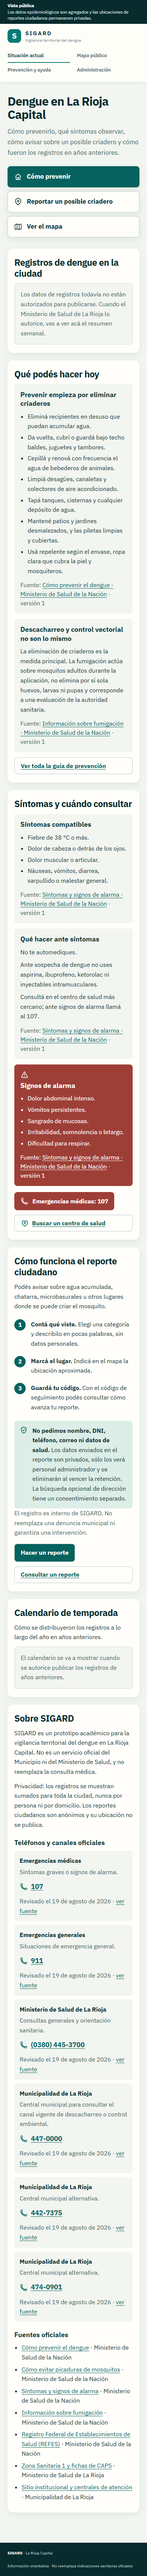
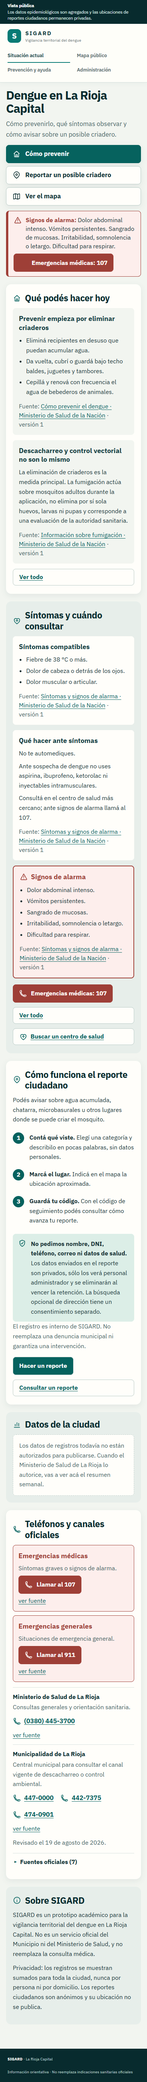
docs: portada reordenada en el manual ciudadano, estado funcional y README
- Manual: los ocho bloques en el nuevo orden (franja de alarma, vista
  previa con «Ver todo», Datos de la ciudad, teléfonos agrupados) y
  capturas regeneradas con datos ficticios (escritorio, celular y celular
  sin datos autorizados).
- Estado funcional: segunda etapa de ajustes de presentación y pruebas.
- README del frontend: descripción de la ruta /.

Changed region(s): [[0.0308, 0.0, 0.9538, 1.0]]

diff --git a/docs/manuales/manual-ciudadano.md b/docs/manuales/manual-ciudadano.md
@@ -28,7 +28,7 @@ En la parte superior hay un menú con estas secciones:
 
 | Sección | Para qué sirve |
 |---|---|
-| Situación actual | Portada: accesos rápidos, registros de años anteriores, prevención, síntomas, reporte y canales oficiales |
+| Situación actual | Portada: accesos rápidos, signos de alarma, prevención, síntomas, reporte, datos de la ciudad y canales oficiales |
 | Mapa público | Mapa de contexto de la ciudad |
 | Actividad registrada | Datos históricos protegidos por zona (sólo aparece si está habilitada) |
 | Prevención y ayuda | Prevención, síntomas, centros de salud, teléfonos, reporte y seguimiento |
@@ -42,27 +42,32 @@ El sitio funciona en computadora y en celular, y se puede recorrer con el teclad
 
 ![La portada en el celular (datos ficticios)](img/ciudadano-portada-movil.png)
 
-La portada reúne lo más útil en una sola página:
+La portada reúne lo más útil en una sola página, en este orden:
 
-1. **Tres accesos**: **Cómo prevenir**, **Reportar un posible criadero** y **Ver el mapa**.
-2. **Registros de dengue en la ciudad**: cuántos registros hubo en cada una de las últimas 8
-   semanas con datos, con la fecha del último dato. **Es una reconstrucción histórica: no muestra
-   la situación actual.** Las semanas con menos de 5 registros aparecen como «Menos de 5». Si
-   alguna semana está protegida, el sitio no calcula si los registros subieron o bajaron, porque
-   eso permitiría deducir el valor oculto.
-3. **Qué podés hacer hoy** y **Síntomas y cuándo consultar**: el mismo contenido que publica el
-   equipo de salud en Prevención y ayuda, con la fuente de cada texto. El botón para llamar a
-   emergencias aparece sólo si ese teléfono está confirmado.
-4. **Cómo funciona el reporte ciudadano**: los pasos y qué datos se guardan.
-5. **Calendario de temporada**: los registros de cada período de 4 semanas (por ejemplo, «del 7 de
-   enero al 3 de febrero»). Elegí el año con los botones. Todas las barras usan la misma escala.
-   Los períodos con alguna semana protegida se ven con rayas y sin total.
-6. **Sobre SIGARD**: qué es, cómo se cuida la privacidad, teléfonos confirmados y fuentes
-   oficiales.
+1. **Título y tres accesos**: **Cómo prevenir**, **Reportar un posible criadero** y **Ver el mapa**.
+2. **Franja de signos de alarma**: justo debajo de los accesos, visible sin desplazarse en el
+   celular. Muestra los signos de alarma publicados por el equipo de salud y un botón para llamar
+   al número de emergencia, sólo si ese teléfono está confirmado; si no lo está, un enlace a
+   Síntomas.
+3. **Qué podés hacer hoy**: los 3 primeros puntos de cada tema de prevención y el enlace **Ver
+   todo**, que lleva a la guía completa en Prevención y ayuda.
+4. **Síntomas y cuándo consultar**: los 3 primeros puntos de cada tema y **Ver todo**. Los **signos
+   de alarma** se muestran siempre completos, en un recuadro rojo claro.
+5. **Cómo funciona el reporte ciudadano**: los pasos y qué datos se guardan.
+6. **Datos de la ciudad**: los registros de las últimas 8 semanas con datos y el calendario de
+   temporada, juntos, con la fecha del último dato. **Es una reconstrucción histórica: no muestra
+   la situación actual.** Las semanas con menos de 5 registros aparecen como «Menos de 5»; si
+   alguna semana está protegida, el sitio no calcula si los registros subieron o bajaron. En el
+   calendario elegí el año con los botones; todas las barras usan la misma escala y los períodos
+   con alguna semana protegida se ven con rayas y sin total.
+7. **Teléfonos y canales oficiales**: las líneas de emergencia con botón para llamar, y el
+   Ministerio y la Municipalidad en una lista breve (las líneas municipales juntas), con la fecha
+   de revisión. Las **Fuentes oficiales** se despliegan al tocar su título.
+8. **Sobre SIGARD**: qué es y cómo se cuida la privacidad.
 
-Mientras el Ministerio de Salud no autorice publicar los registros, los bloques 2 y 5 muestran un
-aviso en lugar de cifras. Cuando la página usa datos de prueba, lo indica con el aviso **«Datos
-ficticios de demostración»**.
+Mientras el Ministerio de Salud no autorice publicar los registros, **Datos de la ciudad** muestra
+un único aviso en lugar de cifras. Cuando la página usa datos de prueba, lo indica con el aviso
+**«Datos ficticios de demostración»**.
 
 ![La portada en el celular, sin datos autorizados](img/ciudadano-portada-vacia-movil.png)
 

diff --git a/docs/mvp-functional-status.md b/docs/mvp-functional-status.md
@@ -65,6 +65,17 @@ en períodos de 4 semanas; y sobre SIGARD, privacidad y canales oficiales.
   siguen en `/mapa`, sin cambios. `/` ya no carga la publicación del MVP.
 - **Pruebas:** `test:public-home` (11) y `test:public-home:browser` (390 px y 1440 px, paquete
   ficticio y estado vacío, contraste AA, texto ≥ 16 px, accesos y teclado).
+- **Ajustes de presentación (27/11/2026, segunda etapa):** nuevo orden (accesos, franja de
+  alarma, qué hacer hoy, síntomas, reporte, datos de la ciudad, teléfonos, sobre SIGARD). La franja
+  arma una línea con el título y los ítems publicados de `signos-alarma` y llama al número de
+  emergencia publicado/confirmado (sin él, enlace a `#sintomas`). Prevención y síntomas muestran los
+  3 primeros ítems de cada sección con «Ver todo»; los signos de alarma, completos y en rojo claro.
+  Registros y calendario forman un solo bloque «Datos de la ciudad» (un único mensaje sin
+  autorización, y el subtítulo omite «años anteriores»). Contactos: códigos cortos destacados con
+  botón, el resto agrupado por nombre, una sola línea «Revisado…» y fuentes en un desplegable. El
+  pie de `/` ya no muestra el corte epidemiológico ni la fuente técnica; `/mapa` los conserva.
+  Pruebas: `test:public-home` (14) y `test:public-home:browser` (franja y botón sin scroll a
+  390×844, signos completos, 3 ítems + «Ver todo», un bloque de datos, pie, contraste AA, ≥ 16 px).
 - **Pendiente (sin cambios en esta etapa):** `PreventionGuide` y `SymptomsAlert` de `/prevencion`
   tienen frases sanitarias escritas en el código (por ejemplo «Sin agua acumulada, el mosquito no
   puede completar su ciclo», «Revisá tu casa y los espacios cercanos cada semana…») en lugar de

diff --git a/frontend/README.md b/frontend/README.md
@@ -10,7 +10,7 @@ Visión general, criterios y documentación: [README del repositorio](../README.
 
 | Ruta | Para quién | Qué es |
 |---|---|---|
-| `/` | Público | Situación actual: portada ciudadana con accesos, registros de la ciudad del paquete autorizado de actividad (estado vacío si no está autorizado), contenido preventivo publicado, reporte ciudadano y canales oficiales. No muestra predicción, ranking ni modelo |
+| `/` | Público | Situación actual: portada ciudadana con accesos, franja de signos de alarma, vista previa del contenido preventivo publicado (signos de alarma completos), reporte ciudadano, datos de la ciudad del paquete autorizado de actividad (un único aviso si no está autorizado) y canales oficiales. No muestra predicción, ranking ni modelo |
 | `/mapa` | Público | Mapa público agregado por radio censal. Siempre es el mapa público; un enlace viejo `/mapa?…` con estado del visor redirige a `/admin/predictivo?…` sólo con sesión de administrador |
 | `/actividad` | Público | «Actividad registrada» con supresión de valores pequeños. Oculta salvo con un paquete autorizado o la fixture ficticia (`SIGARD_PUBLIC_ACTIVITY=fixture`) |
 | `/prevencion` | Público | Prevención y ayuda: contenido publicado desde Administración, centros de salud, teléfonos, reporte ciudadano anónimo y seguimiento por código |
